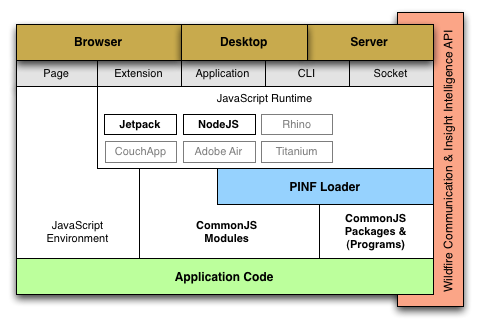
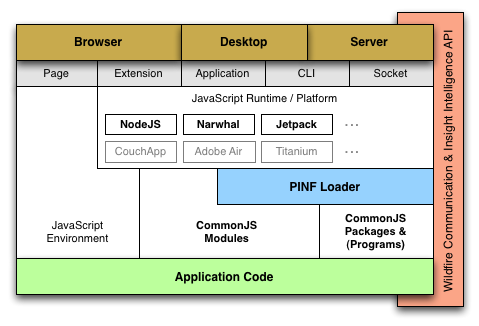
docs

diff --git a/README.md b/README.md
@@ -14,17 +14,18 @@ This module loader brings __[CommonJS](http://www.commonjs.org/) Modules/2__ _(c
 __CommonJS Packages__, __Package Mappings__ and further concepts to the following platforms:
 
   * __[NodeJS](http://nodejs.org/)__ - No npm, just boot via `node ./pinf-loader program.json`
-  * __[Jetpack](https://jetpack.mozillalabs.com/)__ - Use it in any Gecko/Firefox/XULRunner extension or application
   * __[Narwhal](http://narwhaljs.org/)__ - Use it with any Narwhal engine platform
-  * __[Rhino](http://www.mozilla.org/rhino/)__ - Use it in any Java application or from the command line (working via Narwhal)
-  * __[GPSEE](http://code.google.com/p/gpsee/)__ - Use it to build low-level system commands (__Not Yet Implemented__)
-  * __[CouchApp](http://couchapp.org/page/index)__ - Use it to serve applications right from your CouchDB database (__Not Yet Implemented__)
-  * __[Titanium](http://www.appcelerator.com/)__ - Use it in any existing Titanium application (__Not Yet Implemented__)
+  * __[Jetpack](https://jetpack.mozillalabs.com/)__ - Use it in any Gecko/XULRunner extension or application
+  * __[Rhino](http://www.mozilla.org/rhino/)__ (__Not Yet Implemented__)
+  * __[RingoJS](http://ringojs.org/)__ (__Not Yet Implemented__)
+  * __[GPSEE](http://code.google.com/p/gpsee/)__ (__Not Yet Implemented__)
+  * __[CouchApp](http://couchapp.org/page/index)__ (__Not Yet Implemented__)
+  * __[Titanium](http://www.appcelerator.com/)__ (__Not Yet Implemented__)
   * __Browser__ - For development and optimized production purposes
     * __Standalone__ - Just include one small file in your page (**< 8 KB zipped maybe < ~4 KB**)
-    * __[jQuery](http://jquery.org/)__ - Use it in any existing jQuery installation (__Not Yet Implemented__)
-    * __[RequireJS](http://requirejs.org/)__ - Use it in any existing requirejs installation (__Not Yet Implemented__)
-    * __[Dojo](http://dojotoolkit.org/)__ - Use it in any existing Dojo installation (__Not Yet Implemented__)
+    * __[jQuery](http://jquery.org/)__ (__Not Yet Implemented__)
+    * __[RequireJS](http://requirejs.org/)__ (__Not Yet Implemented__)
+    * __[Dojo](http://dojotoolkit.org/)__ (__Not Yet Implemented__)
   * __Services__
     * __[Duostack](http://www.duostack.com/)__ - No npm & hassle free deployment with secret configuration (__Not Yet Implemented__)
     * __[no.de](https://no.de/)__ (__Not Yet Implemented__)
